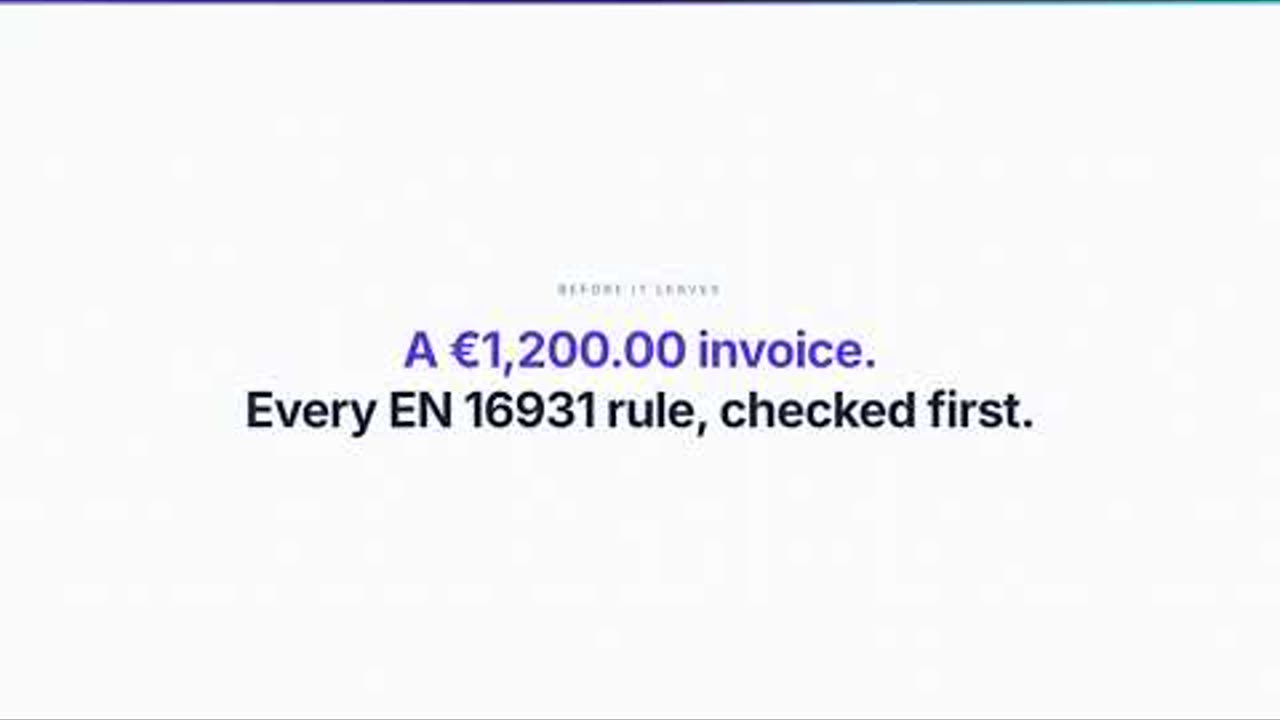
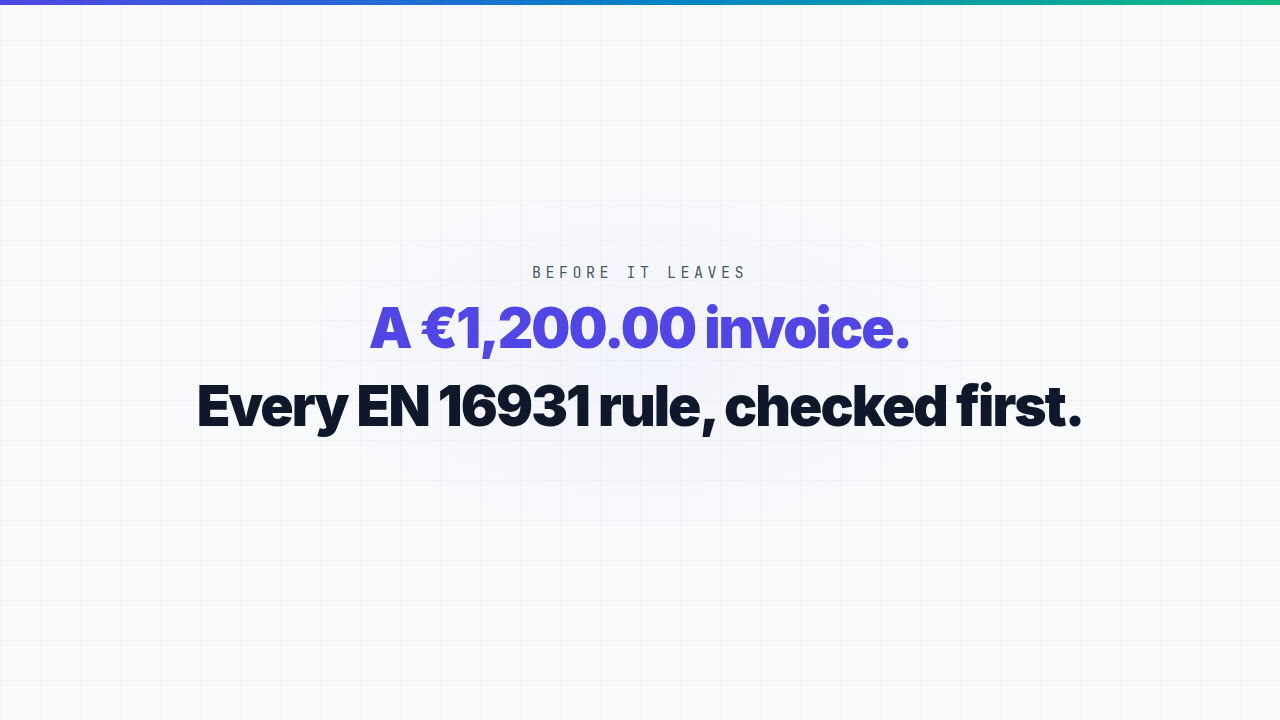
fix(launch-videos): neutral section heading, and a crisp FacturGate poster
Two loose ends from the click-to-load facade.

1. The video section's default heading was "Watch the close happen" — SpendProof's own concept ("a
   clean close is withheld") rendered on all five product pages. It is now "Watch the launch video".
   No page passes a `heading` prop, so that one default was the whole blast radius.

2. FacturGate's poster was a 2x upscale of a 640px frame and looked soft at the tile's 1199px. Root
   cause read back from the API rather than guessed: every upload's SOURCE FILE is 1920x1080 @30fps,
   but FacturGate's `snippet.thumbnails` stop at `standard` (640x480) — YouTube holds no `maxres`
   (1280x720), or the `fhd` 1920x1080 LedgerLink also has, for that upload. So it is not a re-fetch
   problem: the poster is now a crisp 1280x720 re-render of that video's OWN opening slide — same
   eyebrow ("BEFORE IT LEAVES"), same two headline lines in the same indigo/ink, same ambient grid and
   compliance horizon stripe, set as live text instead of an upscale. That frame is itself a
   typographic slide, so this is the same content, sharper. The registry's module doc says so and keeps
   the upgrade path (re-fetch `maxresdefault` if YouTube ever generates one).

Checked in place on the built app before committing: the poster renders 1280 -> 1199 (a downscale, so
no softness), the play pill stays clear of the slide's headline, and the heading reads "Watch the
launch video".
[…]

Changed region(s): [[0.1562, 0.3667, 0.8438, 0.6111], [0.0, 0.0, 1.0, 0.0306]]

diff --git a/src/products/launch-videos.ts b/src/products/launch-videos.ts
@@ -16,10 +16,13 @@
  * `youtube-upload.mjs` uploaded and is NOT rewritten here — if the two disagree, this file is what
  * the pages render and `youtube.json` is history.
  *
- * Posters in `public/launch-videos/` are each video's own frame, fetched from YouTube's thumbnail
- * service at 1280x720 and re-encoded locally. FacturGate's upload has no 1280x720 thumbnail yet
- * (`maxresdefault` / `hq720` answer 404), so its poster is the 640x360 centre crop of `sddefault` —
- * re-fetch it when YouTube generates the larger one.
+ * Posters in `public/launch-videos/` are 1280x720 JPEGs of each video's own opening frame, fetched
+ * from YouTube's thumbnail service (`maxresdefault`) and re-encoded locally. FacturGate is the
+ * exception: YouTube holds no 1280x720 thumbnail for that upload — its `snippet.thumbnails` stop at
+ * `standard` (640x480) even though the source file is 1920x1080 @30fps like the others — so its
+ * poster is a crisp 1280x720 re-render of THAT VIDEO'S OWN opening slide (same eyebrow, headline,
+ * palette, grid and horizon stripe, set as live text rather than a 2x upscale of a 640px frame).
+ * Upgrade it to the real `maxresdefault` if YouTube ever generates one.
  */
 
 export interface LaunchVideo {

diff --git a/src/components/product-launch-video.tsx b/src/components/product-launch-video.tsx
@@ -24,7 +24,7 @@ import { launchVideoEmbedUrl, launchVideoFor, launchVideoWatchUrl } from "@/prod
  */
 export function ProductLaunchVideo({
   slug,
-  heading = "Watch the close happen",
+  heading = "Watch the launch video",
 }: {
   slug: string;
   heading?: string;
